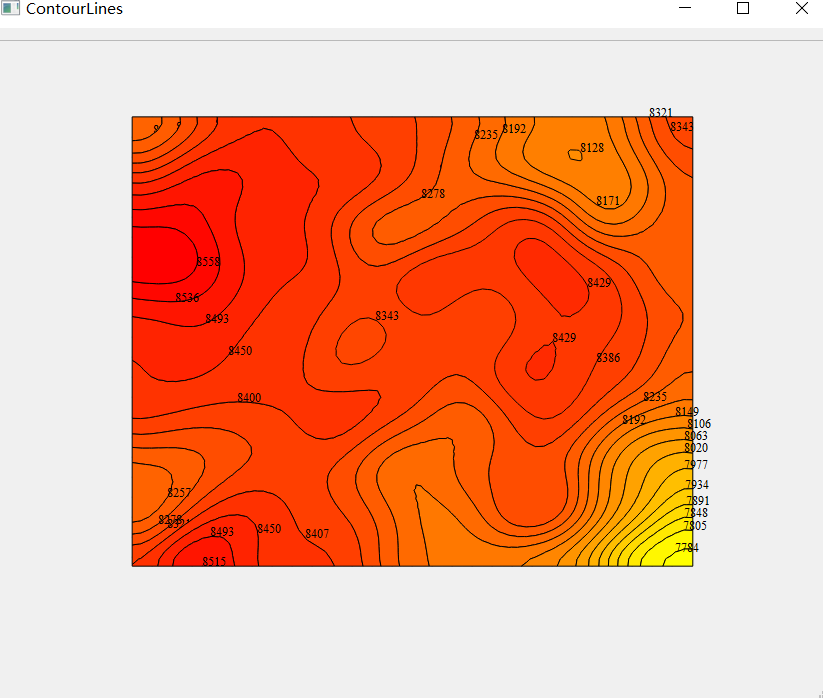
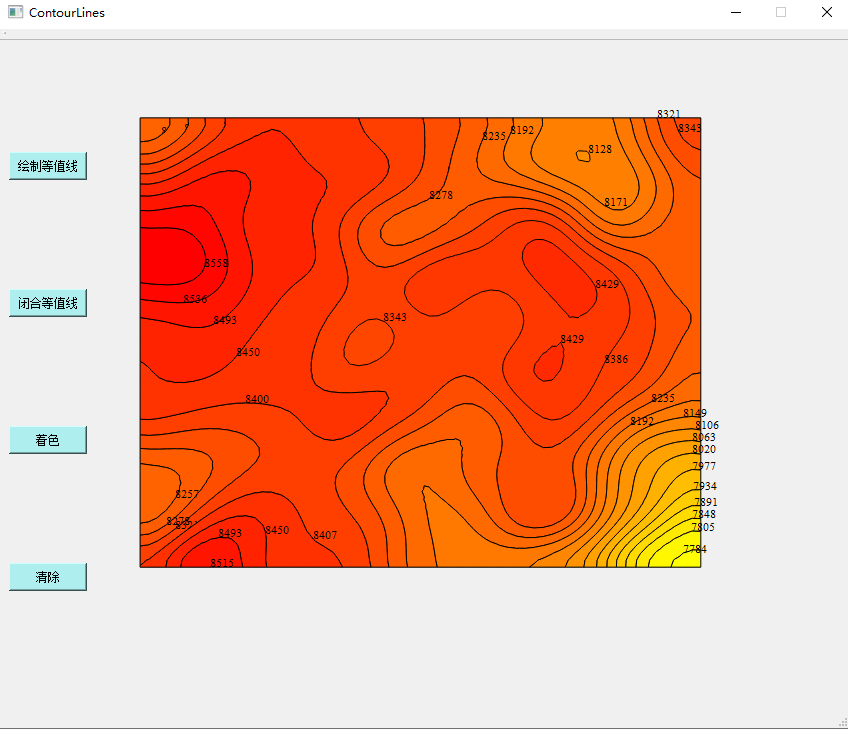
add UI control

diff --git a/ContourClose/ContourClose.cpp b/ContourClose/ContourClose.cpp
@@ -3,6 +3,7 @@
 
 #include <math.h>
 #include <QLineF>
+#include <assert.h>
 
 ContourClose::ContourClose()
 {

diff --git a/README.md b/README.md
@@ -1,4 +1,4 @@
-### 等值线自动建立拓扑关系算法与快速填充应用——学生时代的第一个练手项目，保存代码做留念
+### 等值线自动建立拓扑关系算法与快速填充应用
 - 通过构建“拓扑包含二叉树”，找到了一种自动建立等值线拓扑关系的新方法，并且提出了一种基于拓扑关系的等值线图快速填充算法。
 - 开发语言：算法实现用的c++，图像界面等可视化工作用的Qt5.9
 - 运行环境要求：windows+vs2017+Qt5.9
@@ -13,3 +13,5 @@
   
 - 运行效果：
 <br/>![](./Doc/contour.png)<br/>
+
+<br/>![](./Doc/show.gif)<br/>
